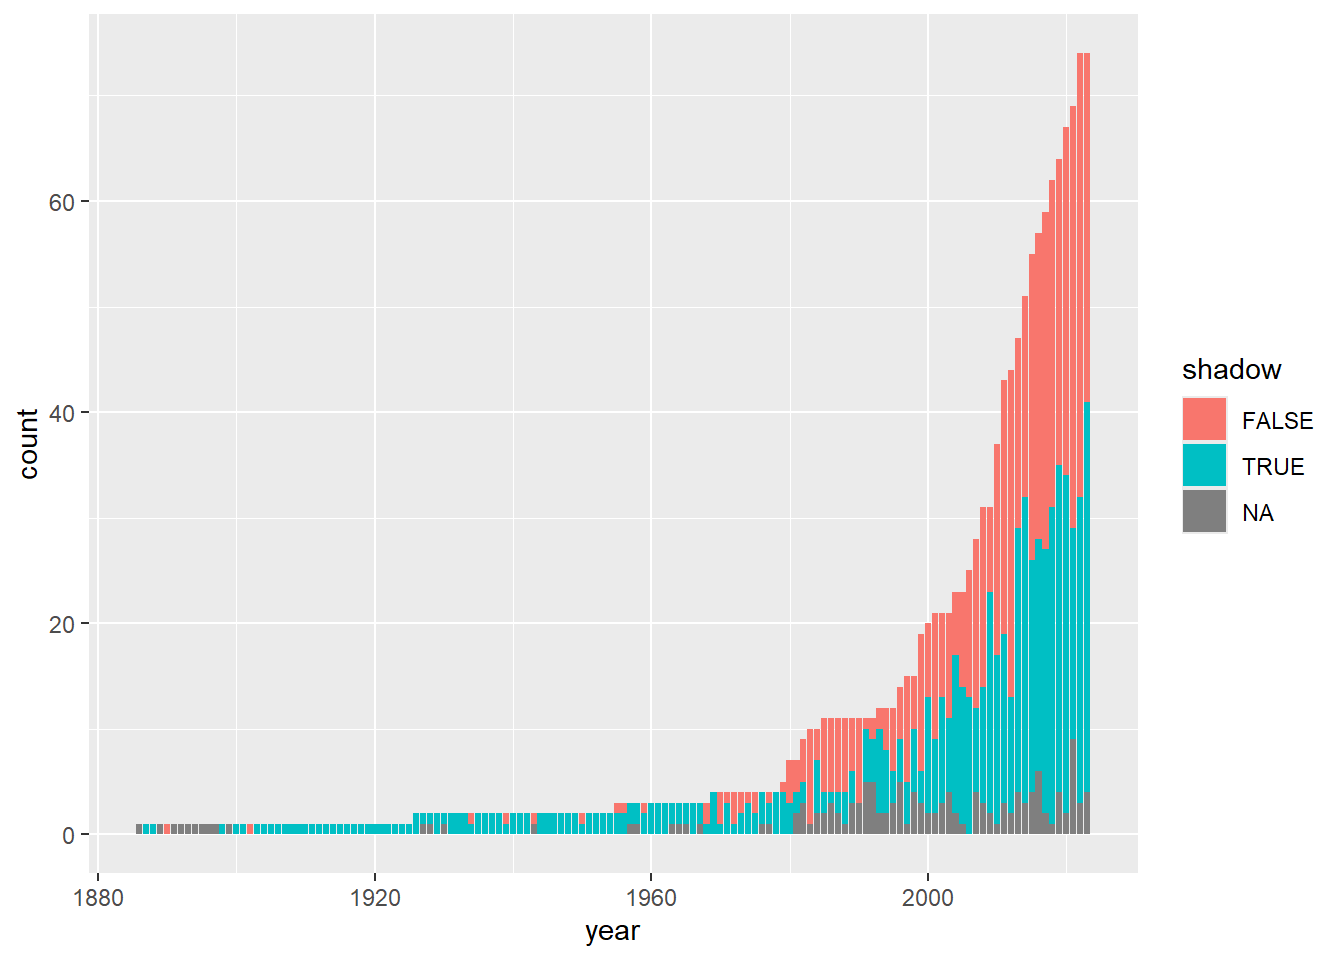
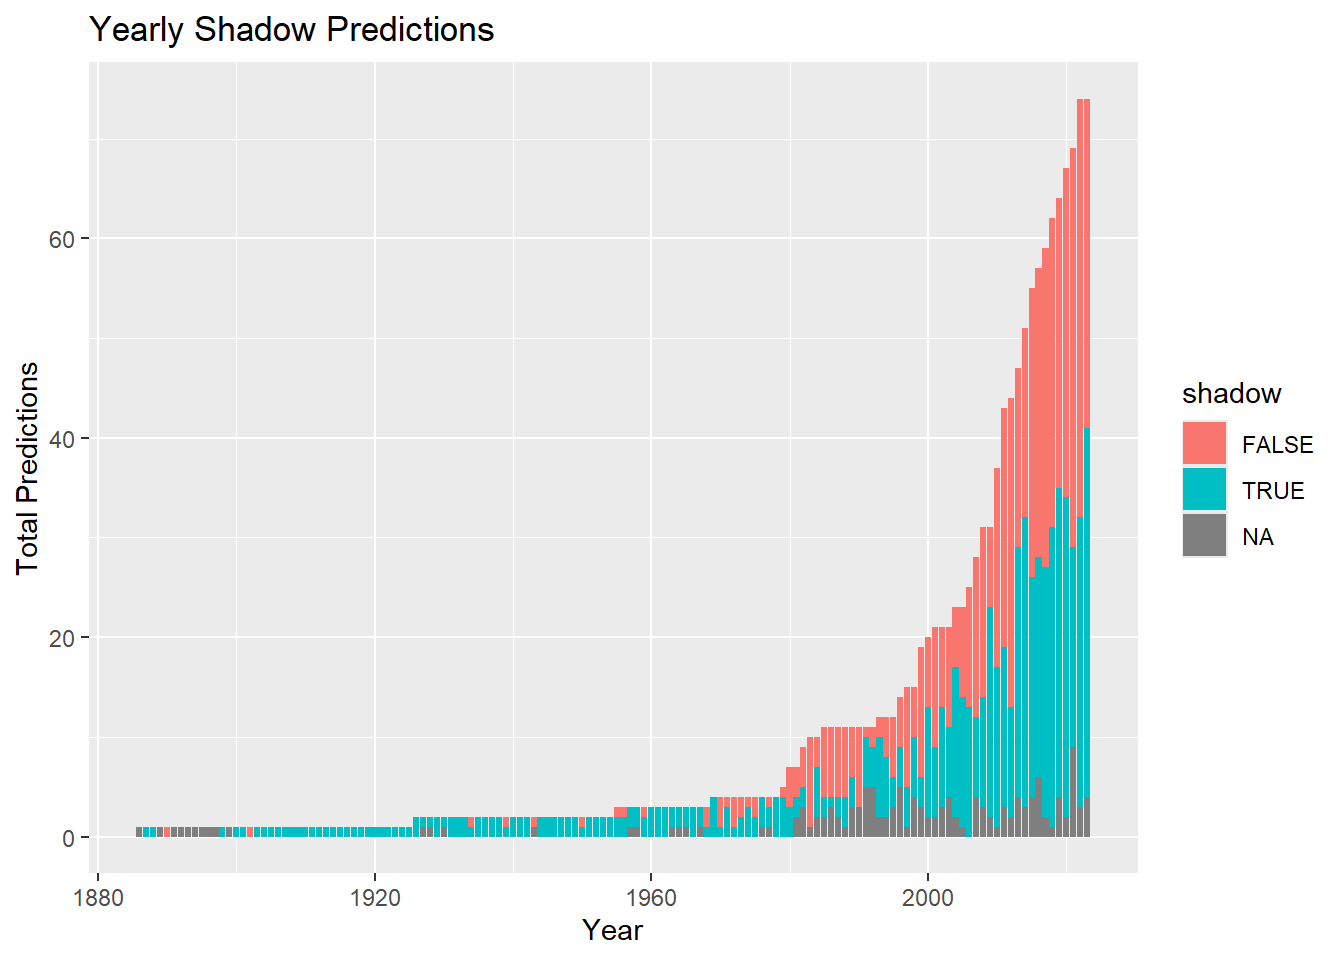
added labels

diff --git a/docs/dataviz2.html b/docs/dataviz2.html
@@ -239,8 +239,10 @@ pre > code.sourceCode > span > a:first-child::before { text-decoration: underlin
 <span id="cb4-5"><a href="#cb4-5" aria-hidden="true" tabindex="-1"></a><span class="fu">ggplot</span>(id_prediction,  <span class="fu">aes</span>(<span class="at">x =</span> id, <span class="at">y =</span> total_shadow_count)) <span class="sc">+</span></span>
 <span id="cb4-6"><a href="#cb4-6" aria-hidden="true" tabindex="-1"></a>  <span class="fu">geom_col</span>() <span class="sc">+</span></span>
 <span id="cb4-7"><a href="#cb4-7" aria-hidden="true" tabindex="-1"></a>  <span class="fu">labs</span>(</span>
-<span id="cb4-8"><a href="#cb4-8" aria-hidden="true" tabindex="-1"></a>    <span class="at">title =</span> <span class="st">"Longer winter predictions per Ground Hog"</span></span>
-<span id="cb4-9"><a href="#cb4-9" aria-hidden="true" tabindex="-1"></a>  )</span></code><button title="Copy to Clipboard" class="code-copy-button"><i class="bi"></i></button></pre></div>
+<span id="cb4-8"><a href="#cb4-8" aria-hidden="true" tabindex="-1"></a>    <span class="at">title =</span> <span class="st">"Longer winter predictions per Ground Hog"</span>,</span>
+<span id="cb4-9"><a href="#cb4-9" aria-hidden="true" tabindex="-1"></a>    <span class="at">x =</span> <span class="st">"Groundhog identification"</span>,</span>
+<span id="cb4-10"><a href="#cb4-10" aria-hidden="true" tabindex="-1"></a>    <span class="at">y =</span> <span class="st">"Saw Shadow Count"</span></span>
+<span id="cb4-11"><a href="#cb4-11" aria-hidden="true" tabindex="-1"></a>  )</span></code><button title="Copy to Clipboard" class="code-copy-button"><i class="bi"></i></button></pre></div>
 <div class="cell-output-display">
 <div>
 <figure class="figure">
@@ -250,7 +252,11 @@ pre > code.sourceCode > span > a:first-child::before { text-decoration: underlin
 </div>
 <div class="sourceCode cell-code" id="cb5"><pre class="sourceCode r code-with-copy"><code class="sourceCode r"><span id="cb5-1"><a href="#cb5-1" aria-hidden="true" tabindex="-1"></a><span class="fu">ggplot</span>(predictions, <span class="fu">aes</span>(<span class="at">x =</span> year, <span class="at">fill =</span> shadow)) <span class="sc">+</span></span>
 <span id="cb5-2"><a href="#cb5-2" aria-hidden="true" tabindex="-1"></a>  <span class="fu">geom_bar</span>() <span class="sc">+</span></span>
-<span id="cb5-3"><a href="#cb5-3" aria-hidden="true" tabindex="-1"></a>  <span class="fu">labs</span>()</span></code><button title="Copy to Clipboard" class="code-copy-button"><i class="bi"></i></button></pre></div>
+<span id="cb5-3"><a href="#cb5-3" aria-hidden="true" tabindex="-1"></a>  <span class="fu">labs</span>(</span>
+<span id="cb5-4"><a href="#cb5-4" aria-hidden="true" tabindex="-1"></a>    <span class="at">title =</span> <span class="st">"Yearly Shadow Predictions"</span>,</span>
+<span id="cb5-5"><a href="#cb5-5" aria-hidden="true" tabindex="-1"></a>    <span class="at">x =</span> <span class="st">"Year"</span>,</span>
+<span id="cb5-6"><a href="#cb5-6" aria-hidden="true" tabindex="-1"></a>    <span class="at">y =</span> <span class="st">"Total Predictions"</span></span>
+<span id="cb5-7"><a href="#cb5-7" aria-hidden="true" tabindex="-1"></a>  )</span></code><button title="Copy to Clipboard" class="code-copy-button"><i class="bi"></i></button></pre></div>
 <div class="cell-output-display">
 <div>
 <figure class="figure">
